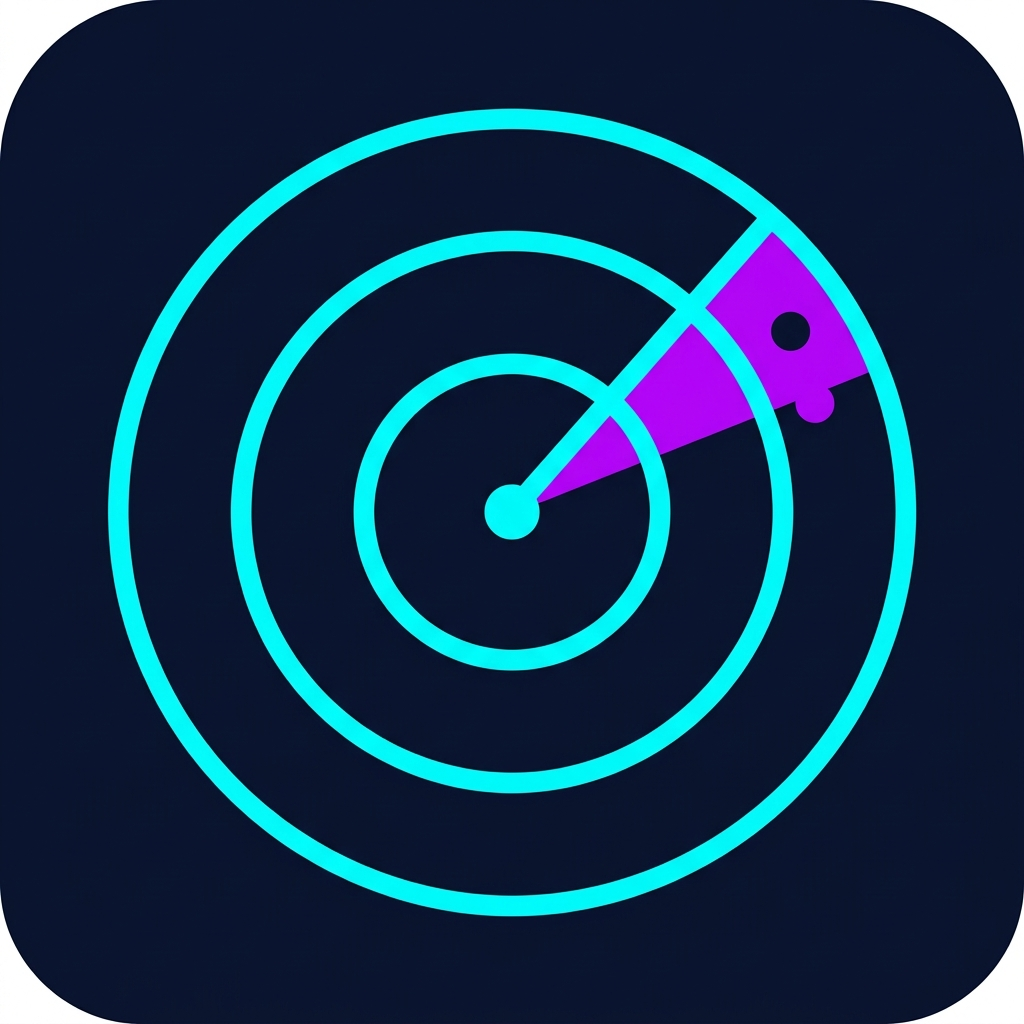
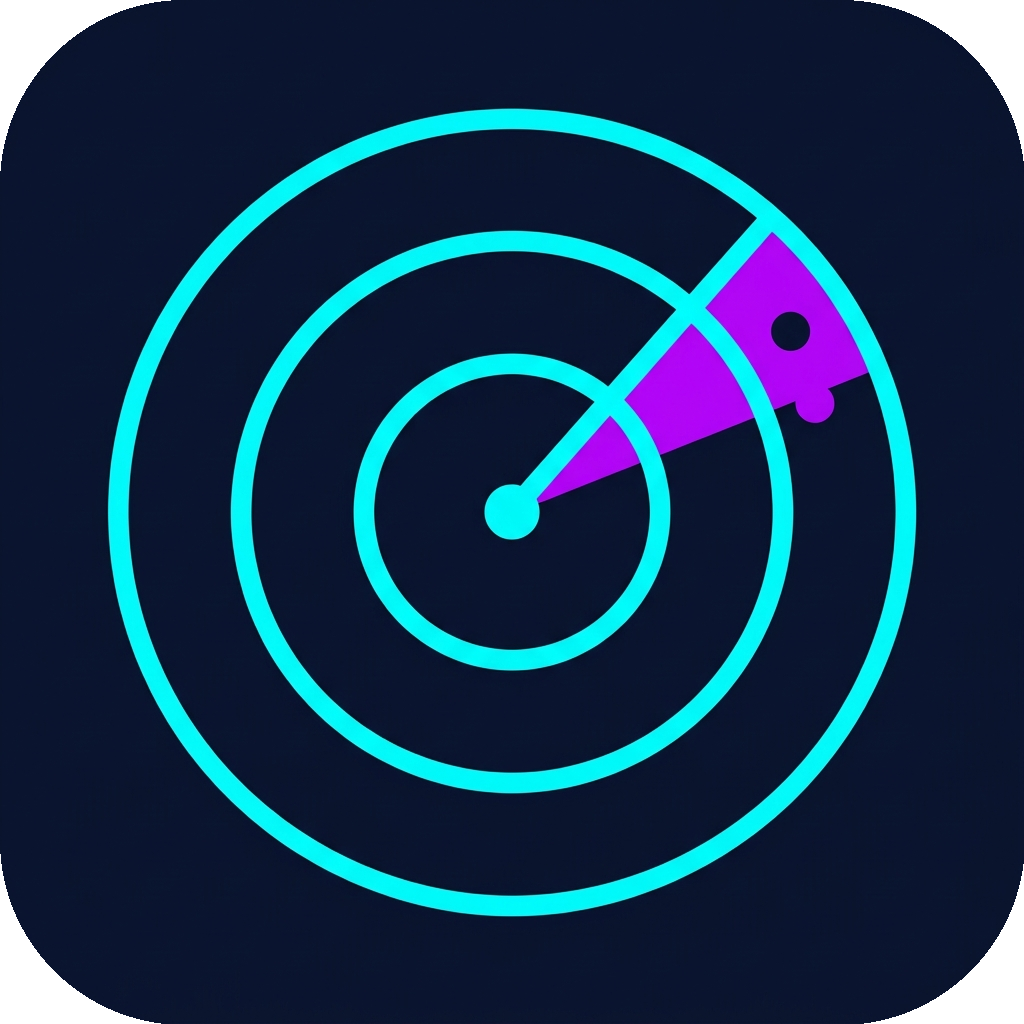
style(branding): apply uniform rounded white corners v0.8.12

diff --git a/CHANGELOG.md b/CHANGELOG.md
@@ -5,6 +5,12 @@ All notable changes to this project will be documented in this file.
 The format is based on [Keep a Changelog](https://keepachangelog.com/en/1.1.0/),
 and this project adheres to [Semantic Versioning](https://semver.org/spec/v2.0.0.html).
 
+## [0.8.12] - 2026-07-19
+
+### Changed
+- **Uniform Rounded Icon**: Applied a rounded corner mask with white-filled borders to make all application icons perfectly uniform.
+
+
 ## [0.8.11] - 2026-07-19
 
 ### Changed